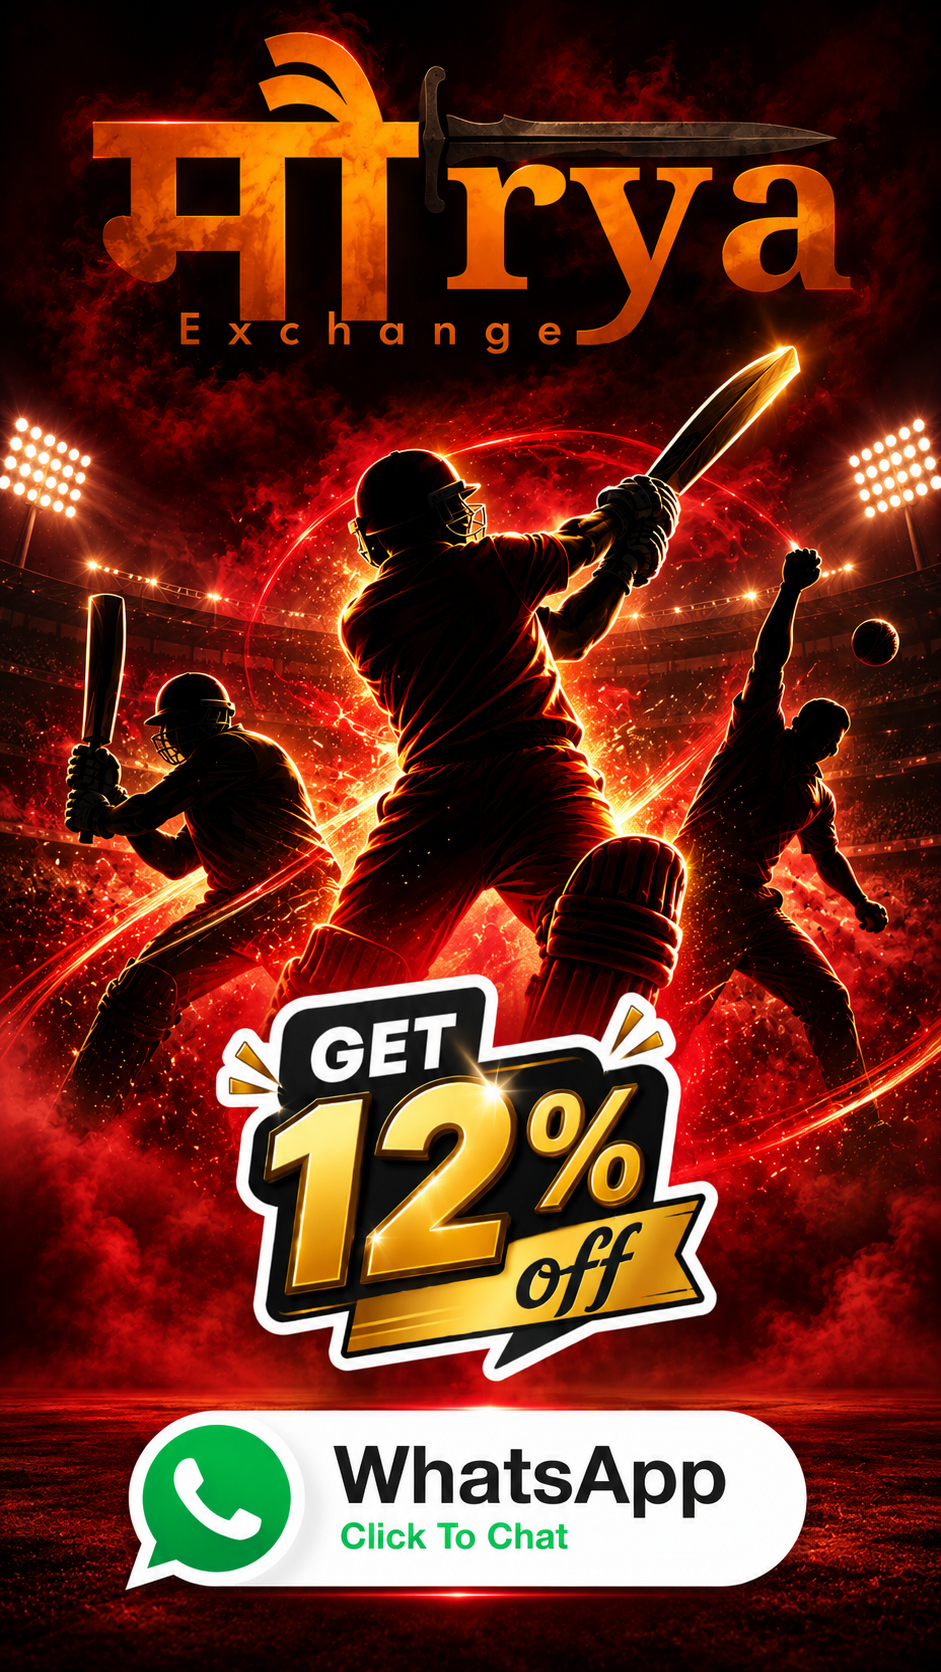
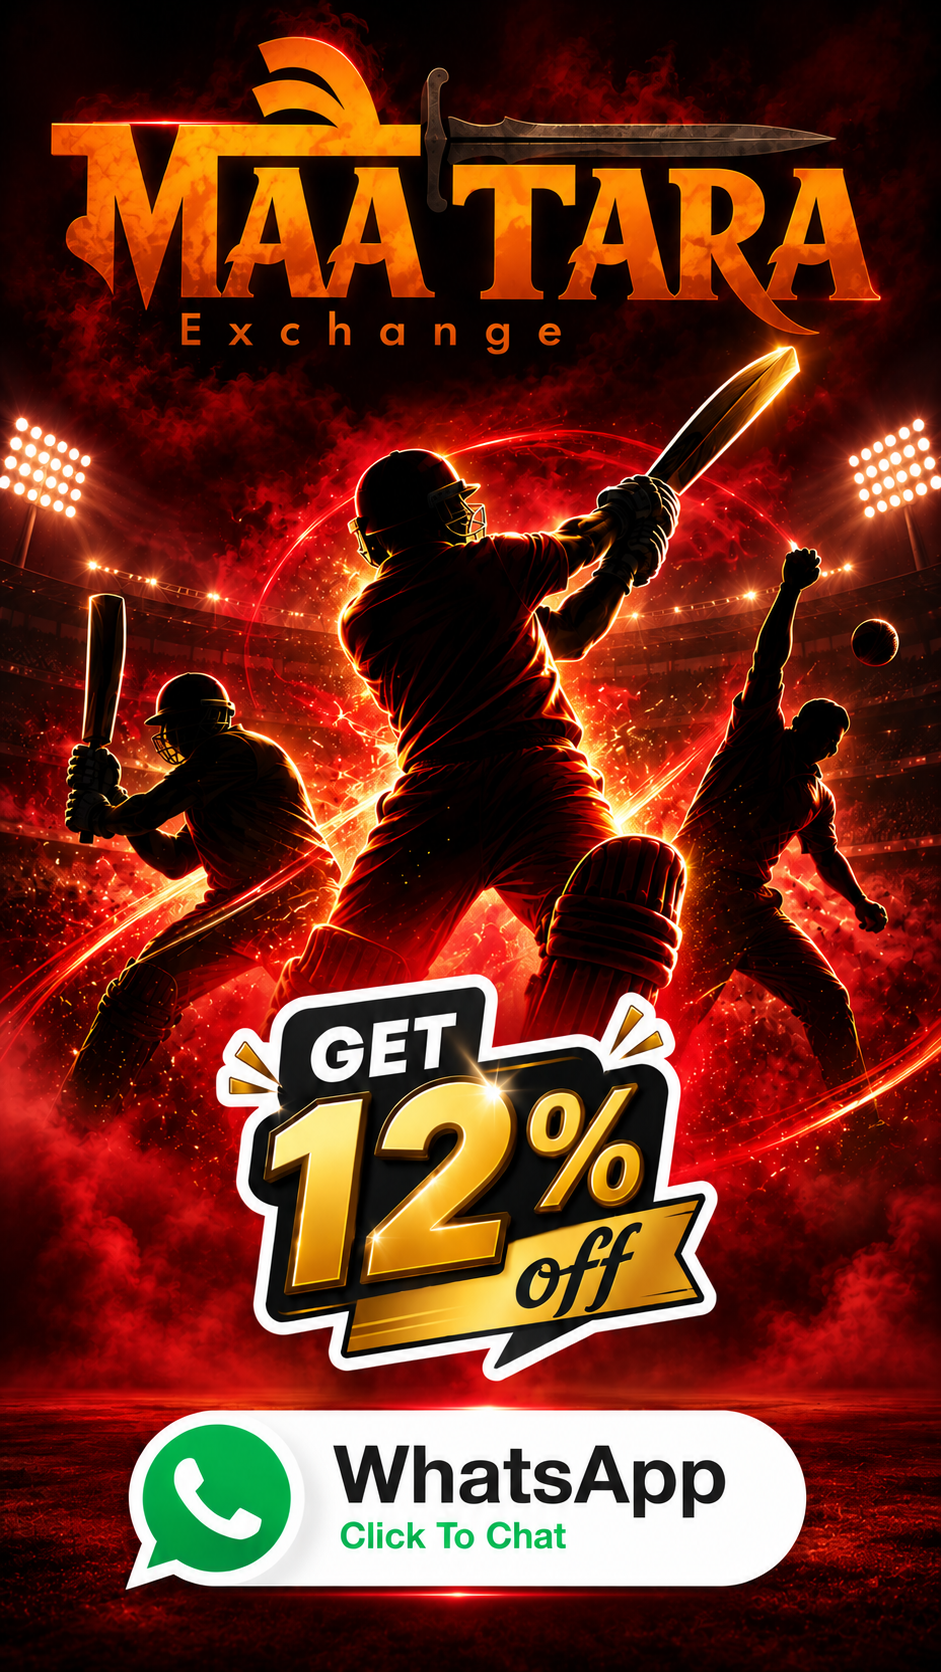
dfdf

diff --git a/index.html b/index.html
@@ -2,11 +2,11 @@
 <html lang="en">
 <head>
   <meta charset="utf-8"><meta name="viewport" content="width=device-width,initial-scale=1">
-  <title>Maurya Studio | Photography &amp; Videography</title>
-  <meta name="description" content="Maurya Studio offers elegant wedding photography, pre-wedding photography, event photography and cinematic videography.">
-  <meta property="og:title" content="Maurya Studio | Photography & Videography"><meta property="og:description" content="Capturing moments. Creating memories."><meta property="og:type" content="website">
+  <title>MAA TARA Studio | Photography &amp; Videography</title>
+  <meta name="description" content="MAA TARA Studio offers elegant wedding photography, pre-wedding photography, event photography and cinematic videography.">
+  <meta property="og:title" content="MAA TARA Studio | Photography & Videography"><meta property="og:description" content="Capturing moments. Creating memories."><meta property="og:type" content="website">
   <link rel="preconnect" href="https://fonts.googleapis.com"><link rel="preconnect" href="https://fonts.gstatic.com" crossorigin><link href="https://fonts.googleapis.com/css2?family=DM+Sans:wght@400;500;600;700&family=Playfair+Display:ital,wght@0,600;0,700;1,600&display=swap" rel="stylesheet"><link rel="stylesheet" href="style.css">
-  <script type="application/ld+json">{"@context":"https://schema.org","@type":"ProfessionalService","name":"Maurya Studio","description":"Photography and videography studio","telephone":"+917355573856","url":"https://example.com","sameAs":[]}</script>
+  <script type="application/ld+json">{"@context":"https://schema.org","@type":"ProfessionalService","name":"MAA TARA Studio","description":"Photography and videography studio","telephone":"+917355573856","url":"https://example.com","sameAs":[]}</script>
 </head>
 <!-- Google tag (gtag.js) -->
 <script async src="https://www.googletagmanager.com/gtag/js?id=AW-18438770077"></script>
@@ -37,19 +37,19 @@ function gtag_report_conversion(url) {
 </script>
 
 <body>
-<header class="nav"><a class="brand" href="#home">MAURYA <em>STUDIO</em></a><button class="menu" aria-label="Open menu" aria-expanded="false"><span></span><span></span></button><nav><a href="#home">Home</a><a href="#about">About</a><a href="#services">Services</a><a href="#portfolio">Portfolio</a><a href="#why">Why Us</a><a href="#contact">Contact</a></nav><div class="nav-actions"><a class="call" href="tel:+447355573856">Call Now</a><a class="wa small" href="https://wa.me/447355573856" target="_blank">WhatsApp</a></div></header>
+<header class="nav"><a class="brand" href="#home">MAA TARA <em>STUDIO</em></a><button class="menu" aria-label="Open menu" aria-expanded="false"><span></span><span></span></button><nav><a href="#home">Home</a><a href="#about">About</a><a href="#services">Services</a><a href="#portfolio">Portfolio</a><a href="#why">Why Us</a><a href="#contact">Contact</a></nav><div class="nav-actions"><a class="call" href="tel:+447355573856">Call Now</a><a class="wa small" href="https://wa.me/447355573856" target="_blank">WhatsApp</a></div></header>
 <main>
-<section id="home" class="hero section"><div class="hero-copy reveal"><p class="eyebrow">CAPTURING YOUR BEST MOMENTS</p><h1>Your Moments.<br><i>Our Vision.</i></h1><p class="lead">Professional photography and cinematic videography crafted to turn your special moments into timeless memories.</p><div class="actions"><a class="btn gold" href="#contact">Book a Shoot <b>↗</b></a><a class="btn outline" href="https://wa.me/447355573856" target="_blank">WhatsApp Us</a></div><p class="availability"><span></span> Available for weddings, events &amp; portraits</p></div><div class="hero-art reveal"><div class="orb"></div><div class="portrait-frame"><img src="assets/hero-mobile.png" alt="Elegant wedding portrait by Maurya Studio"></div></div></section>
+<section id="home" class="hero section"><div class="hero-copy reveal"><p class="eyebrow">CAPTURING YOUR BEST MOMENTS</p><h1>Your Moments.<br><i>Our Vision.</i></h1><p class="lead">Professional photography and cinematic videography crafted to turn your special moments into timeless memories.</p><div class="actions"><a class="btn gold" href="#contact">Book a Shoot <b>↗</b></a><a class="btn outline" href="https://wa.me/447355573856" target="_blank">WhatsApp Us</a></div><p class="availability"><span></span> Available for weddings, events &amp; portraits</p></div><div class="hero-art reveal"><div class="orb"></div><div class="portrait-frame"><img src="assets/hero-mobile.png" alt="Elegant wedding portrait by MAA TARA Studio"></div></div></section>
 <section class="stats"><div><b>500<span>+</span></b><p>Happy Clients</p></div><div><b>1000<span>+</span></b><p>Moments Captured</p></div><div><b>5<span>+</span></b><p>Years of Experience</p></div><div><b>100<span>%</span></b><p>Dedication</p></div></section>
-<section id="about" class="about section"><div class="about-image reveal"><img src="assets/about.jpg" alt="Maurya Studio wedding photography"><p>Real stories, beautifully preserved.</p></div><div class="about-copy reveal"><p class="eyebrow">THE MAURYA APPROACH</p><h2>We Turn Moments<br>Into <i>Memories</i></h2><p>Every frame has a feeling. At Maurya Studio, we seek out the joyful glances, beautiful details and unrepeatable moments that make your story entirely yours.</p><div class="ticks"><span>✦ Professional creative team</span><span>✦ High-quality equipment &amp; editing</span><span>✦ Detail-led, personal service</span><span>✦ Fast, polished delivery</span></div><a class="text-link" href="#portfolio">Discover our work <b>→</b></a></div></section>
+<section id="about" class="about section"><div class="about-image reveal"><img src="assets/about.jpg" alt="MAA TARA Studio wedding photography"><p>Real stories, beautifully preserved.</p></div><div class="about-copy reveal"><p class="eyebrow">THE MAA TARA APPROACH</p><h2>We Turn Moments<br>Into <i>Memories</i></h2><p>Every frame has a feeling. At MAA TARA Studio, we seek out the joyful glances, beautiful details and unrepeatable moments that make your story entirely yours.</p><div class="ticks"><span>✦ Professional creative team</span><span>✦ High-quality equipment &amp; editing</span><span>✦ Detail-led, personal service</span><span>✦ Fast, polished delivery</span></div><a class="text-link" href="#portfolio">Discover our work <b>→</b></a></div></section>
 <section id="services" class="services section"><div class="center reveal"><p class="eyebrow">WHAT WE CREATE</p><h2>Our <i>Services</i></h2><p>From fleeting celebrations to considered campaigns, we bring a cinematic eye to every brief.</p></div><div class="service-grid"><article class="service reveal"><span>✦</span><h3>Wedding Photography</h3><p>Capture every emotion, celebration and unforgettable moment.</p><a href="https://wa.me/447355573856" target="_blank">Enquire Now →</a></article><article class="service reveal"><span>♡</span><h3>Pre-Wedding</h3><p>Creative couple shoots with beautiful locations and storytelling.</p><a href="https://wa.me/447355573856" target="_blank">Enquire Now →</a></article><article class="service reveal"><span>◉</span><h3>Cinematic Films</h3><p>Films that preserve the atmosphere and emotion of your day.</p><a href="https://wa.me/447355573856" target="_blank">Enquire Now →</a></article><article class="service reveal"><span>✳</span><h3>Birthday &amp; Events</h3><p>Professional coverage for celebrations big and small.</p><a href="https://wa.me/447355573856" target="_blank">Enquire Now →</a></article><article class="service reveal"><span>◌</span><h3>Fashion &amp; Portrait</h3><p>Distinctive portraits and editorial-inspired personal shoots.</p><a href="https://wa.me/447355573856" target="_blank">Enquire Now →</a></article><article class="service reveal"><span>◇</span><h3>Product Photography</h3><p>Elevated imagery for your catalog, campaign and social feed.</p><a href="https://wa.me/447355573856" target="_blank">Enquire Now →</a></article></div></section>
 <section id="portfolio" class="portfolio section"><div class="split-title reveal"><div><p class="eyebrow">SELECTED STORIES</p><h2>Our Recent <i>Work</i></h2></div><p>Click a frame to view it closer.</p></div><div class="gallery"><button class="tile tall"><img src="assets/gallery-1.jpg" alt="Wedding photography portfolio"><span>View ↗</span></button><button class="tile"><img src="assets/gallery-2.jpg" alt="Couple photography portfolio"><span>View ↗</span></button><button class="tile"><img src="assets/gallery-3.jpg" alt="Event photography portfolio"><span>View ↗</span></button><button class="tile wide"><img src="assets/gallery-4.jpg" alt="Cinematic photography portfolio"><span>View ↗</span></button><button class="tile"><img src="assets/gallery-5.jpg" alt="Portrait photography portfolio"><span>View ↗</span></button><button class="tile"><img src="assets/gallery-6.jpg" alt="Celebration photography portfolio"><span>View ↗</span></button><button class="tile tall"><img src="assets/gallery-7.jpg" alt="Wedding celebration portfolio"><span>View ↗</span></button><button class="tile"><img src="assets/gallery-8.jpg" alt="Fashion photography portfolio"><span>View ↗</span></button></div></section>
-<section id="why" class="why section"><div class="center reveal"><p class="eyebrow">WHY MAURYA STUDIO</p><h2>Photography that feels<br><i>like you.</i></h2></div><div class="why-grid"><article><b>01</b><h3>Creative Storytelling</h3><p>We capture more than photographs — we capture emotions and stories.</p></article><article><b>02</b><h3>Professional Quality</h3><p>High-quality equipment and refined editing for stunning results.</p></article><article><b>03</b><h3>Personalized Experience</h3><p>Every shoot is planned around your style, occasion and preferences.</p></article><article><b>04</b><h3>Memorable Results</h3><p>Photographs and films you will be proud to relive for years.</p></article></div></section>
+<section id="why" class="why section"><div class="center reveal"><p class="eyebrow">WHY MAA TARA STUDIO</p><h2>Photography that feels<br><i>like you.</i></h2></div><div class="why-grid"><article><b>01</b><h3>Creative Storytelling</h3><p>We capture more than photographs — we capture emotions and stories.</p></article><article><b>02</b><h3>Professional Quality</h3><p>High-quality equipment and refined editing for stunning results.</p></article><article><b>03</b><h3>Personalized Experience</h3><p>Every shoot is planned around your style, occasion and preferences.</p></article><article><b>04</b><h3>Memorable Results</h3><p>Photographs and films you will be proud to relive for years.</p></article></div></section>
 <section class="process section"><div class="split-title reveal"><div><p class="eyebrow">HOW IT WORKS</p><h2>Easy from hello<br>to <i>forever.</i></h2></div></div><ol><li><b>01</b><h3>Connect</h3><p>Tell us about your event or dream shoot.</p></li><li><b>02</b><h3>Plan</h3><p>We discuss date, location and creative ideas.</p></li><li><b>03</b><h3>Capture</h3><p>Our team captures every moment with care.</p></li><li><b>04</b><h3>Relive</h3><p>Receive beautifully edited, lasting memories.</p></li></ol></section>
 <section class="testimonials section"><div class="center reveal"><p class="eyebrow">KIND WORDS</p><h2>What Clients <i>Say</i></h2></div><div class="quote-grid"><figure>“Absolutely loved the photography. The team captured every emotion beautifully.”<figcaption>— Priya &amp; Rohit, Wedding</figcaption></figure><figure>“They made us feel completely comfortable and the photos are beyond what we imagined.”<figcaption>— Ananya, Portrait Session</figcaption></figure><figure>“Professional, warm and incredibly talented. Every photo feels like a memory.”<figcaption>— Saurabh, Event Client</figcaption></figure></div></section>
-<section class="cta section"><p class="eyebrow">YOUR STORY STARTS HERE</p><h2>Let’s Capture<br>Something <i>Beautiful</i></h2><p>Have a special moment coming up? Let Maurya Studio turn it into memories you can keep forever.</p><div class="actions"><a class="btn gold" href="tel:+917355573856">Call 7355573856</a><a class="btn light" href="https://wa.me/917355573856" target="_blank">WhatsApp Us</a></div></section>
+<section class="cta section"><p class="eyebrow">YOUR STORY STARTS HERE</p><h2>Let’s Capture<br>Something <i>Beautiful</i></h2><p>Have a special moment coming up? Let MAA TARA Studio turn it into memories you can keep forever.</p><div class="actions"><a class="btn gold" href="tel:+917355573856">Call 7355573856</a><a class="btn light" href="https://wa.me/917355573856" target="_blank">WhatsApp Us</a></div></section>
 <section id="contact" class="contact section"><div class="contact-copy reveal"><p class="eyebrow">GET IN TOUCH</p><h2>Let’s make<br>something <i>lasting.</i></h2><p>Tell us what you’re celebrating. We’ll be in touch to create a shoot as special as the occasion.</p><a class="contact-phone" href="tel:+917355573856">+91 73555 73856</a><div class="actions"><a class="btn outline" href="tel:+917355573856">Call Now</a><a class="btn gold" href="https://wa.me/917355573856" target="_blank">WhatsApp</a></div></div><form class="enquiry reveal"><label>Name<input required name="name" placeholder="Your name"></label><label>Phone number<input required name="phone" type="tel" placeholder="Your contact number"></label><label>Event type<select name="event"><option>Wedding Photography</option><option>Pre-Wedding Photography</option><option>Event Photography</option><option>Portrait / Fashion</option><option>Product Photography</option></select></label><label>Event date<input name="date" type="date"></label><label class="full">Message<textarea name="message" placeholder="Tell us a little about your plans"></textarea></label><button class="btn gold full" type="submit">Send WhatsApp Enquiry ↗</button></form></section>
 </main>
-<footer><a class="brand" href="#home">MAURYA <em>STUDIO</em></a><p>Capturing moments. Creating memories.</p><div><a href="#home">Home</a><a href="#about">About</a><a href="#services">Services</a><a href="#portfolio">Portfolio</a><a href="#contact">Contact</a></div><div><a href="https://wa.me/917355573856">WhatsApp</a><a href="#">Instagram</a><a href="#">Facebook</a></div><small>© 2026 Maurya Studio. All Rights Reserved.</small></footer>
-<a class="floating-wa" aria-label="Message Maurya Studio on WhatsApp" href="https://wa.me/917355573856" target="_blank">◔</a><div class="mobile-cta"><a href="tel:+917355573856">CALL NOW</a><a href="https://wa.me/917355573856" target="_blank">WHATSAPP</a></div><dialog class="lightbox"><button aria-label="Close lightbox">×</button><img src="" alt="Expanded portfolio image"></dialog><script src="script.js"></script>
+<footer><a class="brand" href="#home">MAA TARA <em>STUDIO</em></a><p>Capturing moments. Creating memories.</p><div><a href="#home">Home</a><a href="#about">About</a><a href="#services">Services</a><a href="#portfolio">Portfolio</a><a href="#contact">Contact</a></div><div><a href="https://wa.me/917355573856">WhatsApp</a><a href="#">Instagram</a><a href="#">Facebook</a></div><small>© 2026 MAA TARA Studio. All Rights Reserved.</small></footer>
+<a class="floating-wa" aria-label="Message MAA TARA Studio on WhatsApp" href="https://wa.me/917355573856" target="_blank">◔</a><div class="mobile-cta"><a href="tel:+917355573856">CALL NOW</a><a href="https://wa.me/917355573856" target="_blank">WHATSAPP</a></div><dialog class="lightbox"><button aria-label="Close lightbox">×</button><img src="" alt="Expanded portfolio image"></dialog><script src="script.js"></script>
 </body></html>

diff --git a/script.js b/script.js
@@ -4,7 +4,7 @@ document.querySelectorAll('nav a').forEach(a=>a.addEventListener('click',()=>nav
 addEventListener('scroll',()=>document.querySelector('.nav').classList.toggle('scrolled',scrollY>10));
 const observer=new IntersectionObserver(entries=>entries.forEach(e=>{if(e.isIntersecting){e.target.classList.add('in');observer.unobserve(e.target)}}),{threshold:.12});document.querySelectorAll('.reveal').forEach(e=>observer.observe(e));
 const dialog=document.querySelector('.lightbox'),dialogImage=dialog.querySelector('img');document.querySelectorAll('.tile').forEach(tile=>tile.addEventListener('click',()=>{dialogImage.src=tile.querySelector('img').src;dialogImage.alt=tile.querySelector('img').alt;dialog.showModal()}));dialog.querySelector('button').onclick=()=>dialog.close();dialog.addEventListener('click',e=>{if(e.target===dialog)dialog.close()});
-document.querySelector('.enquiry').addEventListener('submit',e=>{e.preventDefault();const d=new FormData(e.target),message=`Hello Maurya Studio, I would like to enquire about your photography services.\n\nName: ${d.get('name')}\nPhone: ${d.get('phone')}\nEvent Type: ${d.get('event')}\nEvent Date: ${d.get('date')||'Not specified'}\nMessage: ${d.get('message')||'Not specified'}`;window.open(`https://wa.me/917355573856?text=${encodeURIComponent(message)}`,'_blank')});
+document.querySelector('.enquiry').addEventListener('submit',e=>{e.preventDefault();const d=new FormData(e.target),message=`Hello MAA TARA Studio, I would like to enquire about your photography services.\n\nName: ${d.get('name')}\nPhone: ${d.get('phone')}\nEvent Type: ${d.get('event')}\nEvent Date: ${d.get('date')||'Not specified'}\nMessage: ${d.get('message')||'Not specified'}`;window.open(`https://wa.me/917355573856?text=${encodeURIComponent(message)}`,'_blank')});
 
 // Google Ads conversion snippet for WhatsApp clicks.
 function gtag_report_conversion(url){
@@ -27,7 +27,7 @@ document.querySelectorAll('a[href*="wa.me/917355573856"]').forEach(link=>{
   link.setAttribute('onclick','return gtag_report_conversion(this.href)');
 });
 const heroImage=document.querySelector('.portrait-frame');
-heroImage.setAttribute('role','link');heroImage.setAttribute('tabindex','0');heroImage.setAttribute('aria-label','Message Maurya Studio on WhatsApp');
+heroImage.setAttribute('role','link');heroImage.setAttribute('tabindex','0');heroImage.setAttribute('aria-label','Message MAA TARA Studio on WhatsApp');
 const heroWhatsAppUrl=`https://wa.me/447355573856?text=${encodeURIComponent(whatsappMessage)}`;
 const openHeroWhatsApp=()=>gtag_report_conversion(heroWhatsAppUrl);
 heroImage.setAttribute('onclick','return gtag_report_conversion(heroWhatsAppUrl)');heroImage.addEventListener('keydown',event=>{if(event.key==='Enter'||event.key===' '){event.preventDefault();openHeroWhatsApp()}});
